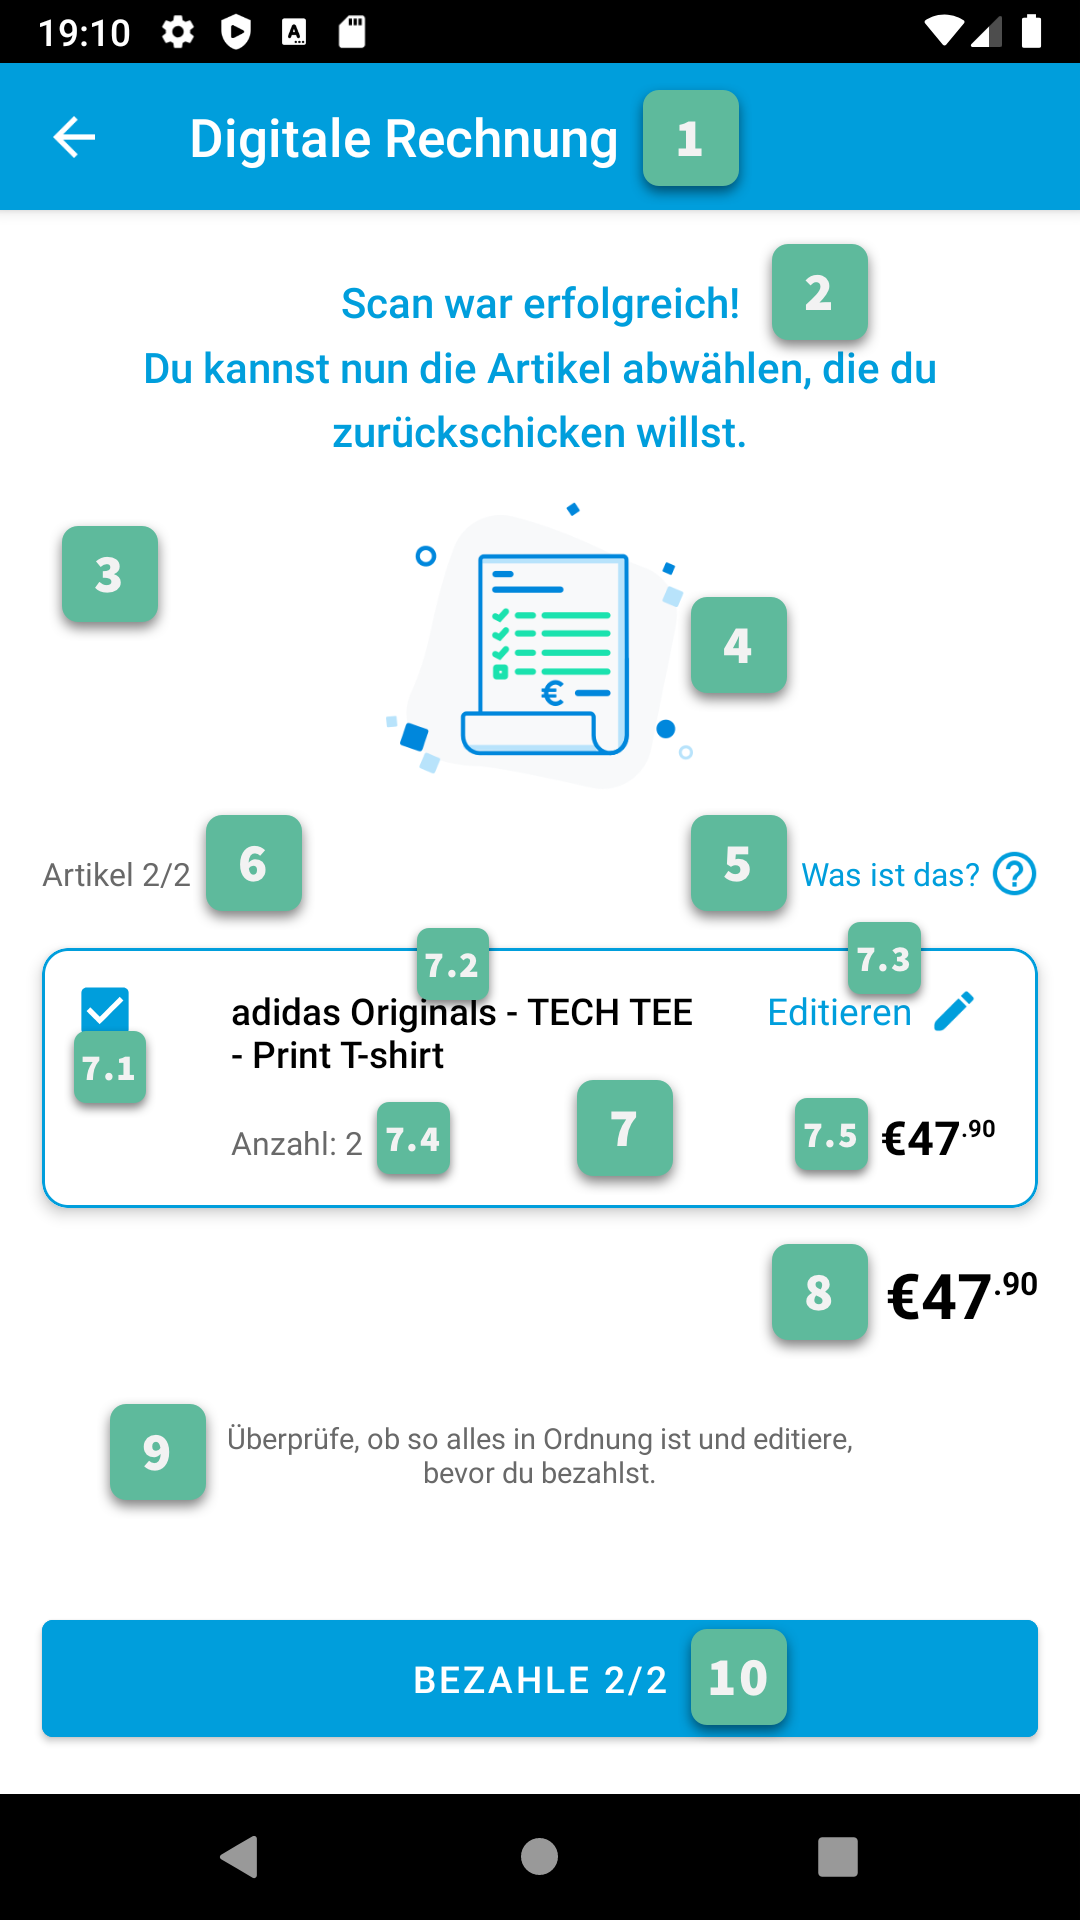
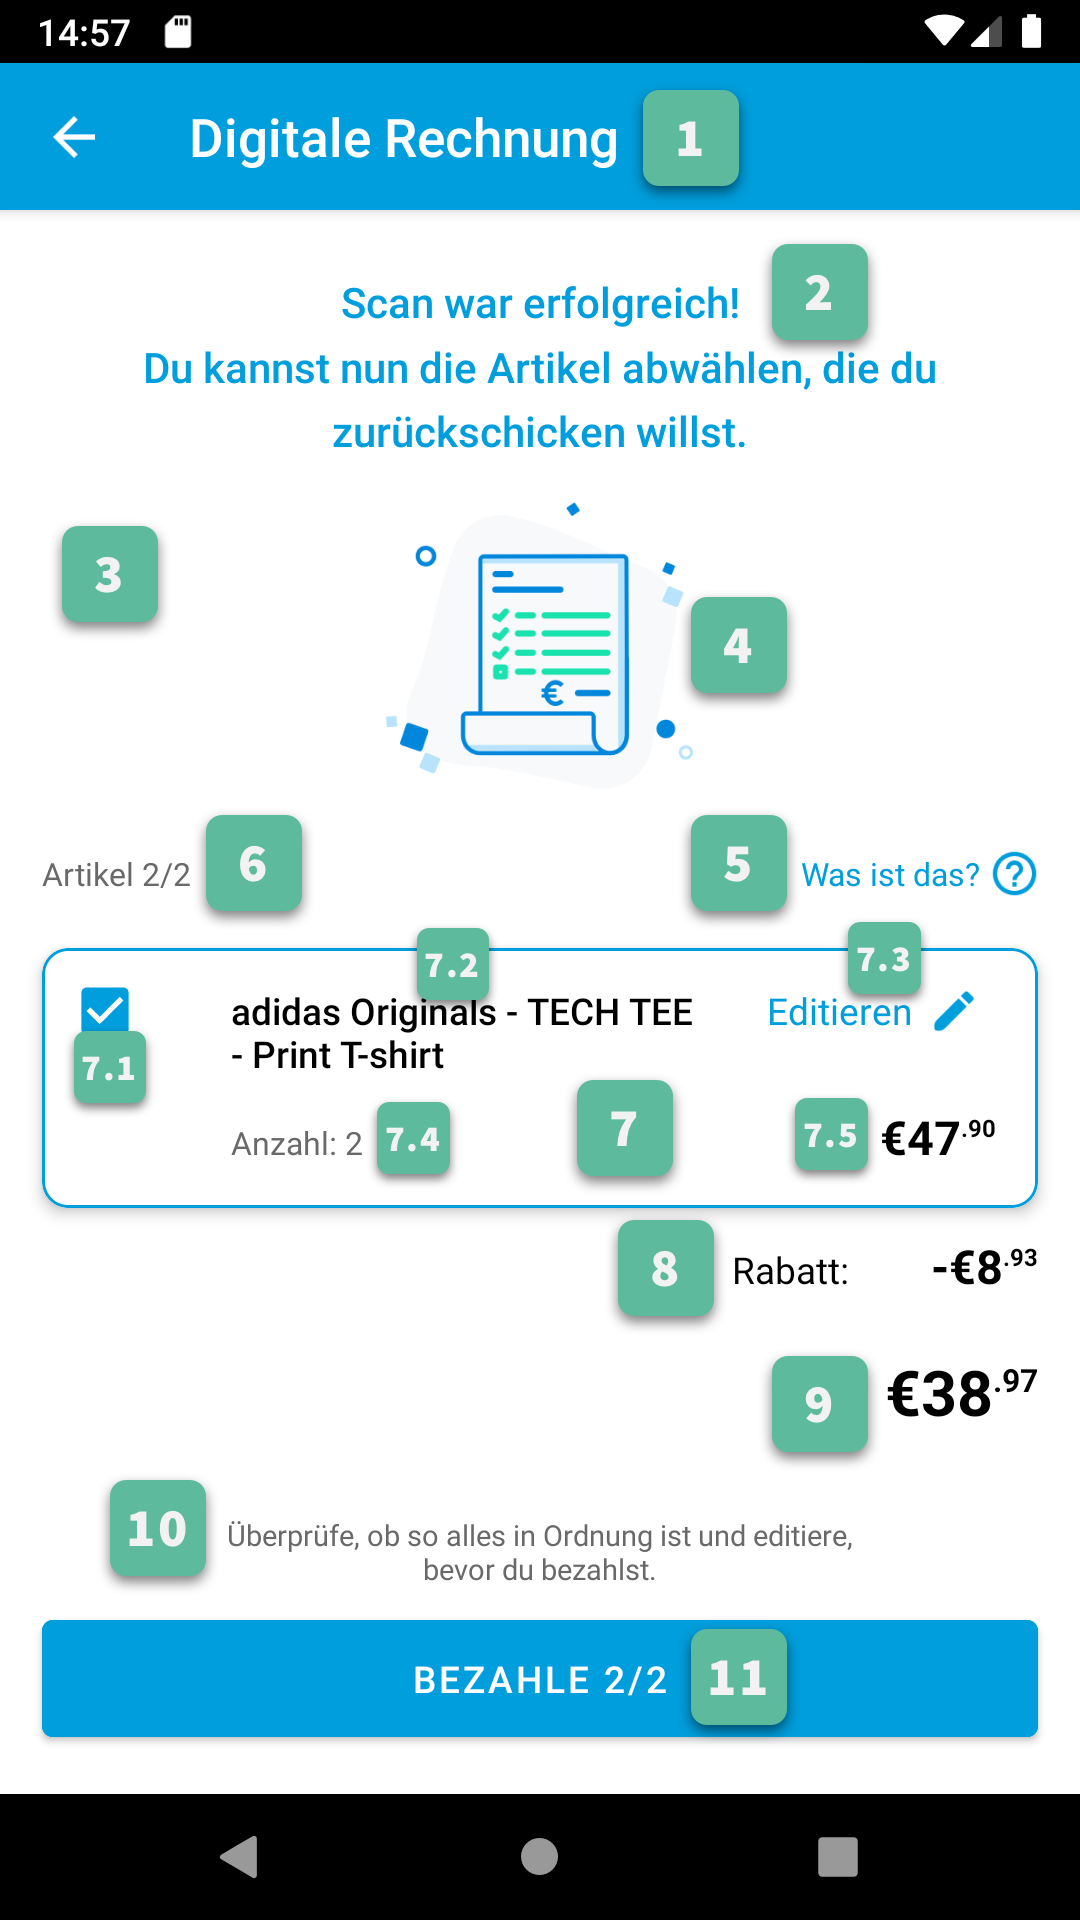
Adds the return reason dialog to the customization guide

diff --git a/ginivision/src/doc/source/customization-guide.rst b/ginivision/src/doc/source/customization-guide.rst
@@ -1988,9 +1988,11 @@ Digital Invoice Screen
       <area shape="rect" alt="" title="Edit Button" coords="251,275,276,301" href="customization-guide.html#digital-invoice-7-3" target="" />
       <area shape="rect" alt="" title="Quantity Label" coords="108,329,137,355" href="customization-guide.html#digital-invoice-7-4" target="" />
       <area shape="rect" alt="" title="Price" coords="233,327,263,354" href="customization-guide.html#digital-invoice-7-5" target="" />
-      <area shape="rect" alt="" title="Total Price" coords="226,371,262,405" href="customization-guide.html#digital-invoice-8" target="" />
-      <area shape="rect" alt="" title="Notice" coords="29,417,63,452" href="customization-guide.html#digital-invoice-9" target="" />
-      <area shape="rect" alt="" title="Pay Button" coords="201,485,238,521" href="customization-guide.html#digital-invoice-10" target="" />
+      <area shape="rect" alt="" title="Addons" coords="182,365,216,397" href="customization-guide.html#digital-invoice-8" target="" />
+      <area shape="rect" alt="" title="Total Price" coords="231,406,261,437" href="customization-guide.html#digital-invoice-9" target="" />
+      <area shape="rect" alt="" title="Notice" coords="31,445,63,477" href="customization-guide.html#digital-invoice-10" target="" />
+      <area shape="rect" alt="" title="Pay Button" coords="206,486,238,520" href="customization-guide.html#digital-invoice-11" target="" />
+
       <!-- Created by Online Image Map Editor (http://www.maschek.hu/imagemap/index) -->
     </map>
 
@@ -2000,9 +2002,19 @@ Digital Invoice Screen
 
     <map id="what-is-this-dialog-map" name="what-is-this-dialog-map">
       <area shape="rect" alt="" title="Title" coords="87,334,121,365" href="customization-guide.html#what-is-this-dialog" target="" />
-      <area shape="rect" alt="" title="Message" coords="284,370,317,404" href="customization-guide.html#digital-invoice-12" target="" />
-      <area shape="rect" alt="" title="Positive Response" coords="128,457,164,489" href="customization-guide.html#digital-invoice-13" target="" />
-      <area shape="rect" alt="" title="Negative Response" coords="182,500,217,535" href="customization-guide.html#digital-invoice-14" target="" />
+      <area shape="rect" alt="" title="Message" coords="284,370,317,404" href="customization-guide.html#digital-invoice-13" target="" />
+      <area shape="rect" alt="" title="Positive Response" coords="128,457,164,489" href="customization-guide.html#digital-invoice-14" target="" />
+      <area shape="rect" alt="" title="Negative Response" coords="182,500,217,535" href="customization-guide.html#digital-invoice-15" target="" />
+      <!-- Created by Online Image Map Editor (http://www.maschek.hu/imagemap/index) -->
+    </map>
+
+.. raw:: html
+
+    <img src="_static/customization/Return Reason Picker.png" usemap="#return-reason-picker-map" width="324" height="576">
+
+    <map id="return-reason-picker-map" name="return-reason-picker-map">
+      <area shape="rect" alt="" title="Title" coords="166,204,197,237" href="customization-guide.html#return-reason-dialog" target="" />
+      <area shape="rect" alt="" title="Return Reason" coords="216,245,249,279" href="customization-guide.html#digital-invoice-17" target="" />
       <!-- Created by Online Image Map Editor (http://www.maschek.hu/imagemap/index) -->
     </map>
 
@@ -2282,7 +2294,67 @@ All Action Bar customizations except the title are global to all Activities.
 
 .. _digital-invoice-8:
 
-8. Total Price
+8. Discounts or Additional Costs (Addons)
+^^^^
+
+- **Label**
+
+  - **Text Style**
+
+    Via overriding the style named ``GiniVisionTheme.DigitalInvoice.Addon.Name.TextStyle`` (with
+    parent style ``Root.GiniVisionTheme.DigitalInvoice.Addon.Name.TextStyle``).
+  
+  - **Font**
+  
+    Via overriding the style named ``GiniVisionTheme.DigitalInvoice.Addon.Name.TextStyle`` (with
+    parent style ``Root.GiniVisionTheme.DigitalInvoice.Addon.Name.TextStyle``) and setting an
+    item named ``fontFamily`` with the name of a font family or a font resource.
+  
+  - **Color**
+  
+    Via the color resource named ``gv_digital_invoice_addon_name_text``.
+
+- **Price**
+
+  - **Integral Part**
+  
+    - **Text Style**
+  
+      Via overriding the style named ``GiniVisionTheme.DigitalInvoice.Addon.Price.Integral.TextStyle`` (with
+      parent style ``Root.GiniVisionTheme.DigitalInvoice.Addon.Price.Integral.TextStyle``).
+  
+    - **Font**
+  
+      Via overriding the style named ``GiniVisionTheme.DigitalInvoice.Addon.Price.Integral.TextStyle`` (with
+      parent style ``Root.GiniVisionTheme.DigitalInvoice.Addon.Price.Integral.TextStyle``) and setting an
+      item named ``fontFamily`` with the name of a font family or a font resource.
+  
+    - **Color**
+  
+      Via the color resource named ``gv_digital_invoice_addon_price_text``.
+  
+  - **Fractional Part**
+  
+    - **Text Style**
+  
+      Via overriding the style named ``GiniVisionTheme.DigitalInvoice.Addon.Price.Fractional.TextStyle`` (with
+      parent style ``Root.GiniVisionTheme.DigitalInvoice.Addon.Price.Fractional.TextStyle``).
+  
+    - **Font**
+  
+      Via overriding the style named ``GiniVisionTheme.DigitalInvoice.Addon.Price.Fractional.TextStyle`` (with
+      parent style ``Root.GiniVisionTheme.DigitalInvoice.Addon.Price.Fractional.TextStyle``) and setting an
+      item named ``fontFamily`` with the name of a font family or a font resource.
+  
+    - **Color**
+  
+      Via the color resource named ``gv_digital_invoice_addon_price_text``.
+
+:ref:`Back to screenshot. <digital-invoice>`
+
+.. _digital-invoice-9:
+
+9. Total Price
 ^^^^
 
 - **Integral Part**
@@ -2321,9 +2393,9 @@ All Action Bar customizations except the title are global to all Activities.
 
 :ref:`Back to screenshot. <digital-invoice>`
 
-.. _digital-invoice-9:
+.. _digital-invoice-10:
 
-9. Notice
+10. Notice
 ^^^^
 
 - **Text**
@@ -2347,9 +2419,9 @@ All Action Bar customizations except the title are global to all Activities.
 
 :ref:`Back to screenshot. <digital-invoice>`
 
-.. _digital-invoice-10:
+.. _digital-invoice-11:
 
-10. Pay Button
+11. Pay Button
 ^^^^
 
 - **Title**
@@ -2378,9 +2450,9 @@ All Action Bar customizations except the title are global to all Activities.
 
 :ref:`Back to screenshot. <digital-invoice>`
 
-.. _digital-invoice-11:
+.. _digital-invoice-12:
 
-11. Title
+12. Title
 ~~~~~
 
 - **Text**
@@ -2404,9 +2476,9 @@ All Action Bar customizations except the title are global to all Activities.
 
 :ref:`Back to screenshot. <digital-invoice>`
 
-.. _digital-invoice-12:
+.. _digital-invoice-13:
 
-12. Message
+13. Message
 ~~~~~
 
 - **Text**
@@ -2430,9 +2502,9 @@ All Action Bar customizations except the title are global to all Activities.
 
 :ref:`Back to screenshot. <digital-invoice>`
 
-.. _digital-invoice-13:
+.. _digital-invoice-14:
 
-13. Positive Response
+14. Positive Response
 ~~~~~
 
 - **Text**
@@ -2456,9 +2528,9 @@ All Action Bar customizations except the title are global to all Activities.
 
 :ref:`Back to screenshot. <digital-invoice>`
 
-.. _digital-invoice-14:
+.. _digital-invoice-15:
 
-14. Negative Response
+15. Negative Response
 ~~~~~
 
 - **Text**
@@ -2479,6 +2551,65 @@ All Action Bar customizations except the title are global to all Activities.
 - **Color**
 
   Via the color resource named ``gv_digital_invoice_what_is_this_dialog_response_text``.
+
+:ref:`Back to screenshot. <digital-invoice>`
+
+.. _return-reason-dialog:
+
+Return Reason Dialog
+^^^^
+
+- **Background Color**
+
+  Via the color resource named ``gv_digital_invoice_return_reason_dialog_background``.
+
+:ref:`Back to screenshot. <digital-invoice>`
+
+.. _digital-invoice-16:
+
+16. Return Reason Dialog Title
+~~~~~
+
+- **Text**
+
+  Via the string resource named ``gv_digital_invoice_return_reason_dialog_title``.
+
+- **Text Style**
+
+  Via overriding the style named ``GiniVisionTheme.DigitalInvoice.ReturnReasonDialog.Title.TextStyle`` (with
+  parent style ``Root.GiniVisionTheme.DigitalInvoice.ReturnReasonDialog.Title.TextStyle``).
+
+- **Font**
+
+  Via overriding the style named ``GiniVisionTheme.DigitalInvoice.ReturnReasonDialog.Title.TextStyle`` (with
+  parent style ``Root.GiniVisionTheme.DigitalInvoice.ReturnReasonDialog.Title.TextStyle``) and setting an
+  item named ``fontFamily`` with the name of a font family or a font resource.
+
+- **Color**
+
+  Via the color resource named ``gv_digital_invoice_return_reason_dialog_title``.
+
+:ref:`Back to screenshot. <digital-invoice>`
+
+.. _digital-invoice-17:
+
+17. Return Reason Item
+~~~~~
+
+- **Text Style**
+
+  Via overriding the style named ``GiniVisionTheme.DigitalInvoice.ReturnReasonDialog.Item.TextStyle`` (with
+  parent style ``Root.GiniVisionTheme.DigitalInvoice.ReturnReasonDialog.Item.TextStyle``).
+
+- **Font**
+
+  Via overriding the style named ``GiniVisionTheme.DigitalInvoice.ReturnReasonDialog.Item.TextStyle`` (with
+  parent style ``Root.GiniVisionTheme.DigitalInvoice.ReturnReasonDialog.Item.TextStyle``) and setting an
+  item named ``fontFamily`` with the name of a font family or a font resource.
+
+- **Color**
+
+  Via the color resource named ``gv_digital_invoice_return_reason_dialog_item_text``.
 
 :ref:`Back to screenshot. <digital-invoice>`
 
